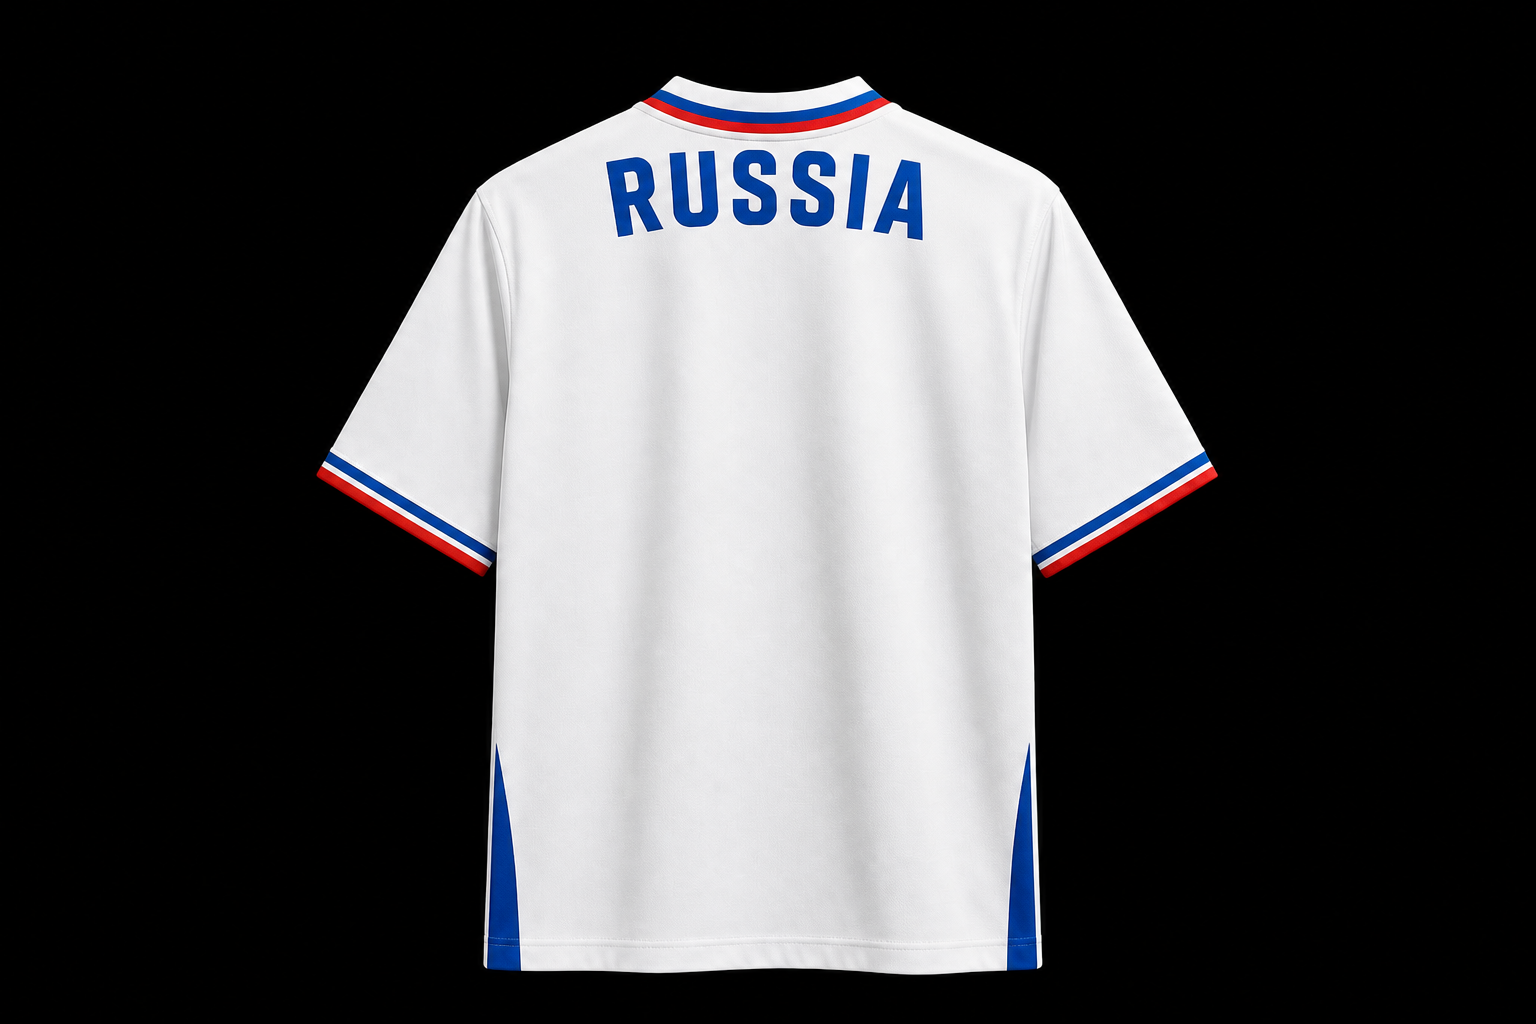
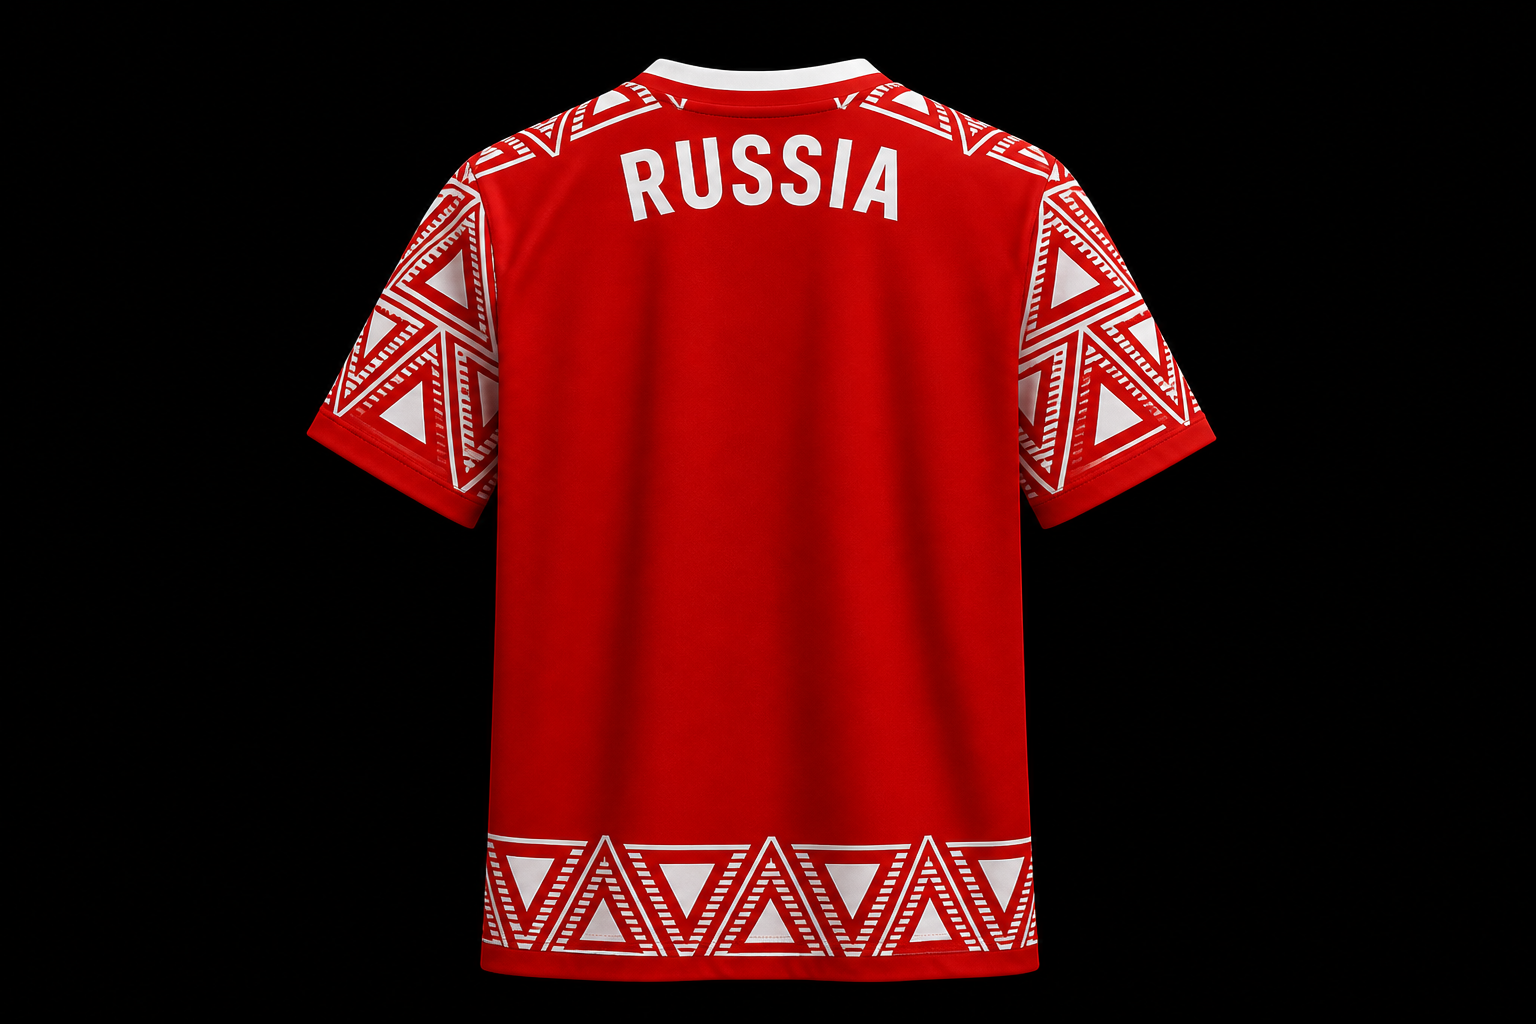
Ship Russia 2026 red patterned jersey and fix multi-digit number spacing.
Numbers use positive tracking plus an optical nudge for 1x marks so 13 stays centered without touching. CSS name/number colors follow white secondary on the new red kit.

diff --git a/display.css b/display.css
@@ -911,7 +911,7 @@ body.display.display-booting .display-canvas:not(.has-background-layer){
   font-family:Impact,"Arial Black","Helvetica Neue Condensed","Arial Narrow",sans-serif!important;
   font-style:normal!important;
   font-weight:900!important;
-  letter-spacing:-.1em!important;
+  letter-spacing:.05em!important;
   font-kerning:none;
   font-variant-numeric:tabular-nums lining-nums;
   color:var(--jersey-secondary,#fff)!important;
@@ -946,7 +946,7 @@ body.display.display-booting .display-canvas:not(.has-background-layer){
   left:26%!important;
   right:26%!important;
   text-align:center!important;
-  letter-spacing:-.1em!important;
+  letter-spacing:.05em!important;
   transform:none;
 }
 .display-canvas[data-screen-format-id="led-64x48"].soccer-jersey-template.jersey-photo-back #displayMain.soccer-jersey-name,
@@ -963,7 +963,7 @@ body.display.display-booting .display-canvas:not(.has-background-layer){
   left:24%!important;
   right:24%!important;
   text-align:center!important;
-  letter-spacing:-.1em!important;
+  letter-spacing:.05em!important;
   transform:none;
 }
 .display-canvas[data-screen-format-id="led-64x32"].soccer-jersey-template.jersey-photo-back #displayMain.soccer-jersey-name,
@@ -980,7 +980,7 @@ body.display.display-booting .display-canvas:not(.has-background-layer){
   left:22%!important;
   right:22%!important;
   text-align:center!important;
-  letter-spacing:-.12em!important;
+  letter-spacing:.04em!important;
   transform:none;
 }
 .display-canvas[data-screen-format-id="led-64x32"].soccer-jersey-template .soccer-jersey-team,

diff --git a/display2.html b/display2.html
@@ -8,7 +8,7 @@
   <meta http-equiv="Pragma" content="no-cache"/>
   <title>FLOQR ShoutOut Display 2</title>
   <meta name="floqr-display-board" content="secondary"/>
-  <link rel="stylesheet" href="./display.css?v=s3.0.18"/>
+  <link rel="stylesheet" href="./display.css?v=s3.0.19"/>
 </head>
 <body class="display display-booting display-board-secondary">
   <main id="displayCanvas" class="display-canvas" data-display-board="secondary">
@@ -39,11 +39,11 @@
 <script src="https://www.gstatic.com/firebasejs/10.12.5/firebase-firestore-compat.js"></script>
 <script src="https://www.gstatic.com/firebasejs/10.12.5/firebase-functions-compat.js"></script>
 <script src="./firebase-config.js?v=29.09.22"></script>
-<script src="./shared-data.js?v=s3.0.18"></script>
-<script src="./national-teams-data.js?v=s3.0.9"></script>
-<script src="./jersey-catalog.js?v=s3.0.18"></script>
+<script src="./shared-data.js?v=s3.0.19"></script>
+<script src="./national-teams-data.js?v=s3.0.19"></script>
+<script src="./jersey-catalog.js?v=s3.0.19"></script>
 <script src="./floqr-identity.js?v=29.09.22"></script>
-<script src="./display-app.js?v=s3.0.18"></script>
+<script src="./display-app.js?v=s3.0.19"></script>
 <script src="./notification-center.js?v=29.09.22"></script>
 <script src="./suprstr-webrtc.js?v=29.09.73"></script>
 <script src="./display-suprstr.js?v=29.09.73"></script>

diff --git a/display.html b/display.html
@@ -7,7 +7,7 @@
   <meta http-equiv="Cache-Control" content="no-cache, no-store, must-revalidate"/>
   <meta http-equiv="Pragma" content="no-cache"/>
   <title>FLOQR ShoutOut Display</title>
-  <link rel="stylesheet" href="./display.css?v=s3.0.18"/>
+  <link rel="stylesheet" href="./display.css?v=s3.0.19"/>
 </head>
 <body class="display display-booting display-board-primary">
   <main id="displayCanvas" class="display-canvas" data-display-board="primary">
@@ -39,11 +39,11 @@
 <script src="https://www.gstatic.com/firebasejs/10.12.5/firebase-functions-compat.js"></script>
 <script src="./firebase-config.js?v=29.09.22"></script>
 <script src="./floqr-temp-qa-showcase.js?v=29.09.112"></script>
-<script src="./shared-data.js?v=s3.0.18"></script>
-<script src="./national-teams-data.js?v=s3.0.9"></script>
-<script src="./jersey-catalog.js?v=s3.0.18"></script>
+<script src="./shared-data.js?v=s3.0.19"></script>
+<script src="./national-teams-data.js?v=s3.0.19"></script>
+<script src="./jersey-catalog.js?v=s3.0.19"></script>
 <script src="./floqr-identity.js?v=29.09.22"></script>
-<script src="./display-app.js?v=s3.0.18"></script>
+<script src="./display-app.js?v=s3.0.19"></script>
 <script src="./notification-center.js?v=29.09.22"></script>
 <script src="./suprstr-webrtc.js?v=29.09.73"></script>
 <script src="./display-suprstr.js?v=29.09.73"></script>

diff --git a/national-teams-data.js b/national-teams-data.js
@@ -109,7 +109,7 @@
     {name: "Poland", region: "Europe", primary: "#FFFFFF", secondary: "#DC143C", collar: "white red"},
     {name: "Portugal", region: "Europe", primary: "#FF0000", secondary: "#006600", accent: "#FFD700", collar: "red green gold"},
     {name: "Romania", region: "Europe", primary: "#002B7F", secondary: "#FCD116", accent: "#CE1126", collar: "blue yellow red"},
-    {name: "Russia", region: "Europe", primary: "#FFFFFF", secondary: "#0039A6", accent: "#D52B1E", collar: "white blue red"},
+    {name: "Russia", region: "Europe", primary: "#C8102E", secondary: "#FFFFFF", accent: "#0039A6", collar: "red white geometric triangles"},
     {name: "San Marino", region: "Europe", primary: "#5EB6E4", secondary: "#FFFFFF", collar: "light blue white"},
     {name: "Scotland", region: "Europe", primary: "#0065BD", secondary: "#FFFFFF", collar: "navy blue white"},
     {name: "Serbia", region: "Europe", primary: "#C6363C", secondary: "#0C4076", accent: "#FFFFFF", collar: "red blue white"},

diff --git a/display-app.js b/display-app.js
@@ -1328,6 +1328,14 @@
       byId("displaySub").classList.add("soccer-jersey-number");
       byId("displaySub").style.setProperty("font-size", `${numberSize}vh`, "important");
       byId("displaySub").style.setProperty("text-align", "center", "important");
+      // Optical midline: digit 1 has a wide right sidebearing — nudge two-digit 1x marks right.
+      if (usePhotoBack && sport === "soccer" && /^1\d$/.test(String(subText || "").trim())) {
+        byId("displaySub").style.setProperty("padding-left", "0.14em", "important");
+        byId("displaySub").style.setProperty("padding-right", "0", "important");
+      } else {
+        byId("displaySub").style.removeProperty("padding-left");
+        byId("displaySub").style.removeProperty("padding-right");
+      }
       byId("displaySub").textContent = subText;
       byId("displaySub").setAttribute("aria-label", subText ? `Jersey mark ${subText}` : "Jersey mark");
       // Animated text holder at bottom (same burst rail as classic).

diff --git a/index.html b/index.html
@@ -716,9 +716,9 @@
 <script src="./global-profile-status.js?v=s3.0.5"></script>
 <script src="./floqr-i18n.js?v=s3.0.6"></script>
 <script src="./floqr-temp-qa-showcase.js?v=29.09.112"></script>
-<script src="./shared-data.js?v=s3.0.18"></script>
-<script src="./national-teams-data.js?v=s3.0.9"></script>
-<script src="./jersey-catalog.js?v=s3.0.18"></script>
+<script src="./shared-data.js?v=s3.0.19"></script>
+<script src="./national-teams-data.js?v=s3.0.19"></script>
+<script src="./jersey-catalog.js?v=s3.0.19"></script>
 <script src="./feature-gates.js?v=29.09.33"></script>
 <script src="./url-media-field.js?v=29.09.52"></script>
 <script src="./ai-service.js?v=29.09.33"></script>
